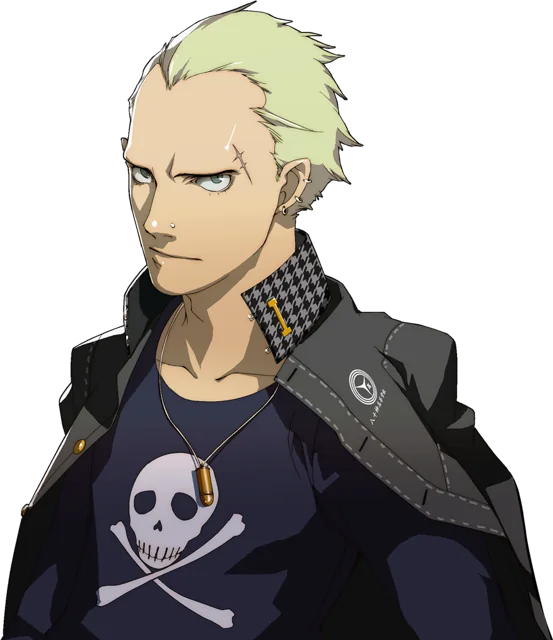
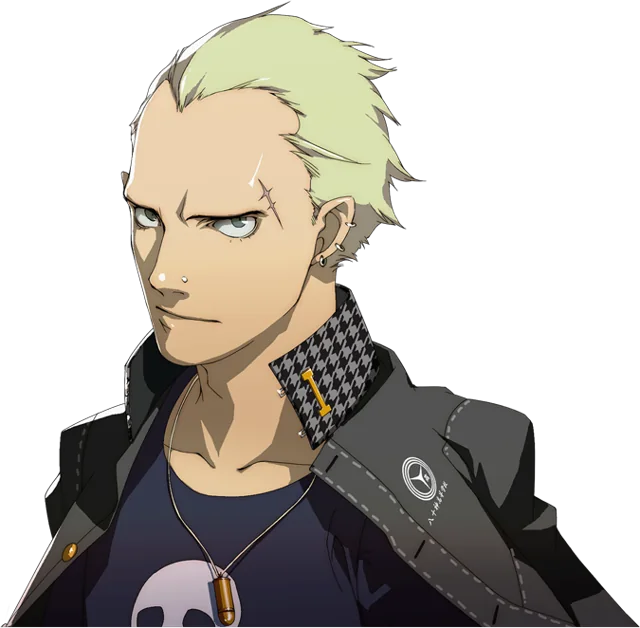
P4G vínculos: retratos oficiales del menú de vínculos para todos los personajes
Claude-Session: https://claude.ai/code/session_01TLD9DxtzdAPGjt2ektcgBd

diff --git a/scripts/p4g-extract/README.md b/scripts/p4g-extract/README.md
@@ -36,5 +36,8 @@ python3 merge_links.py /tmp/p4g-links-dialogs.json <repo>
 
 El vínculo de Teddie (Estrella) sube solo: sus eventos no tienen opciones.
 
-Fotos de los vínculos: `camp/bustup/c_chaNNa.tmx` (01 protagonista, 02 Yosuke, 03 Chie, 04 Yukiko, 05 Rise,
+Fotos de los vínculos: los retratos del menú de vínculos están en `commu/bustup/com_kyaraXX_a(_w).tmx`
+(02 Yosuke … 08 Teddie, 10 Dojima, 11 Sayoko, 12 Zorro, 13 Kou, 14 Daisuke, 15 Naoki, 16 Hisano, 18 Ai, 19 Shu,
+1a Yumi, 1b Ayane, 1c Eri, 1d Nanako, 1e Margaret, 1f Adachi, 20 Marie; 21 es un spoiler con placeholder: no se usa).
+El protagonista (Loco) sale de `camp/bustup/c_cha01a.tmx`. Antes se usaba `camp/bustup/c_chaNNa.tmx` (01 protagonista, 02 Yosuke, 03 Chie, 04 Yukiko, 05 Rise,
 06 Kanji, 07 Naoto, 08 Teddie; `b` = ropa de verano) → `src/games/p4g/assets/links/<id>.webp`.
